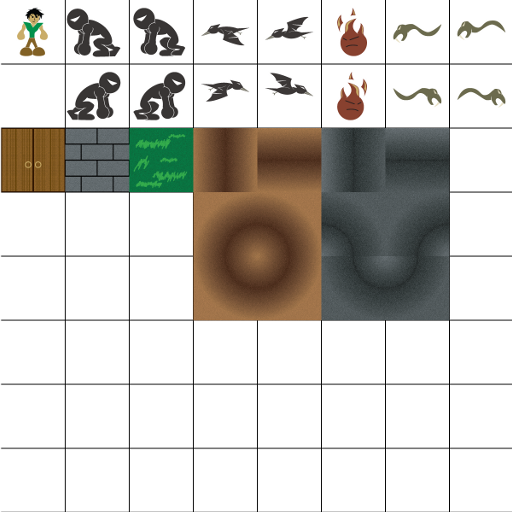
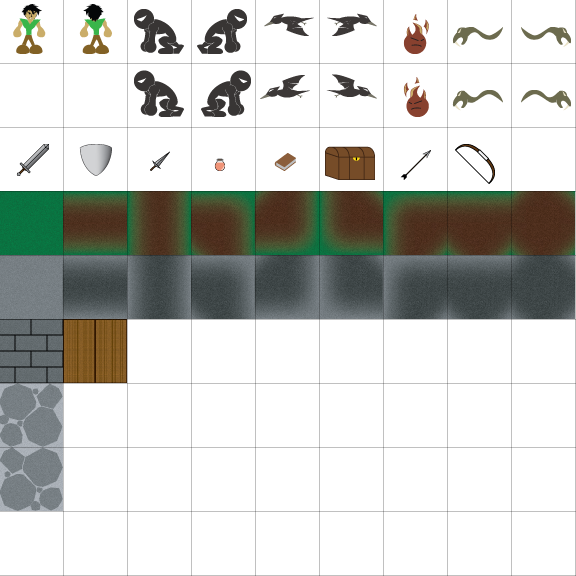
Updated images w/ Scott's most recent.

diff --git a/Killer Pigeons Dare/src/game/entity/Flameo.java b/Killer Pigeons Dare/src/game/entity/Flameo.java
@@ -9,12 +9,12 @@ import org.newdawn.slick.GameContainer;
 import org.newdawn.slick.SlickException;
 import org.newdawn.slick.SpriteSheet;
 
-public class Blueman extends Actor {
-	public Blueman () {
+public class Flameo extends Actor {
+	public Flameo () {
 		SpriteSheet sheet;
 		try {
 			sheet = new SpriteSheet("res/blueman.png", 33, 36, 0);
-			image = sheet.getSubImage(1, 0);
+			image = sheet.getSubImage(6, 0);
 		} catch (SlickException e) {
 			e.printStackTrace();
 		}

diff --git a/Killer Pigeons Dare/src/game/entity/Wall.java b/Killer Pigeons Dare/src/game/entity/Wall.java
@@ -16,11 +16,10 @@ public class Wall extends Entity {
 			try {
 				sheet = new SpriteSheet("res/game.png", 63, 63, 1);
 			} catch (SlickException e) {
-				// TODO Auto-generated catch block
 				e.printStackTrace();
 			}
 		}
-		image = sheet.getSubImage(1, 2);
+		image = sheet.getSubImage(0, 5);
 		name = "Wall";
 	}
 

diff --git a/Killer Pigeons Dare/src/game/entity/Goblin.java b/Killer Pigeons Dare/src/game/entity/Goblin.java
@@ -19,7 +19,7 @@ public class Goblin extends Actor {
 		SpriteSheet sheet;
 		try {
 			sheet = new SpriteSheet("res/game.png", 63, 63, 1);
-			image = sheet.getSubImage(1, 0);
+			image = sheet.getSubImage(2, 0);
 		} catch (SlickException e) {
 			e.printStackTrace();
 		}

diff --git a/Killer Pigeons Dare/src/game/entity/Start.java b/Killer Pigeons Dare/src/game/entity/Start.java
@@ -12,7 +12,7 @@ public class Start extends Entity {
 		SpriteSheet sheet;
 		try {
 			sheet = new SpriteSheet("res/game.png", 63, 63, 1);
-			image = sheet.getSubImage(0, 2);
+			image = sheet.getSubImage(1, 5);
 		} catch (SlickException e) {
 			e.printStackTrace();
 		}

diff --git a/Killer Pigeons Dare/src/game/entity/End.java b/Killer Pigeons Dare/src/game/entity/End.java
@@ -12,7 +12,7 @@ public class End extends Entity {
 		SpriteSheet sheet;
 		try {
 			sheet = new SpriteSheet("res/game.png", 63, 63, 1);
-			image = sheet.getSubImage(0, 2);
+			image = sheet.getSubImage(1, 5);
 		} catch (SlickException e) {
 			e.printStackTrace();
 		}
